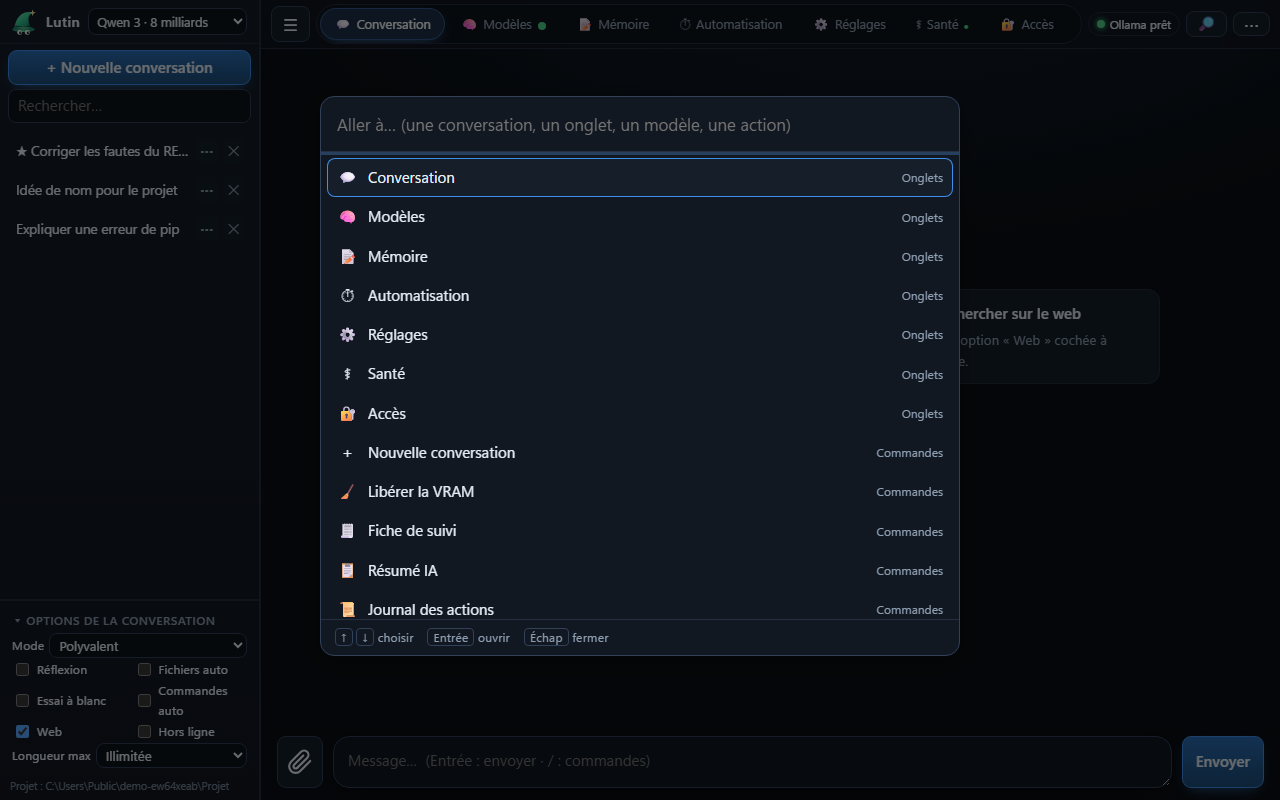
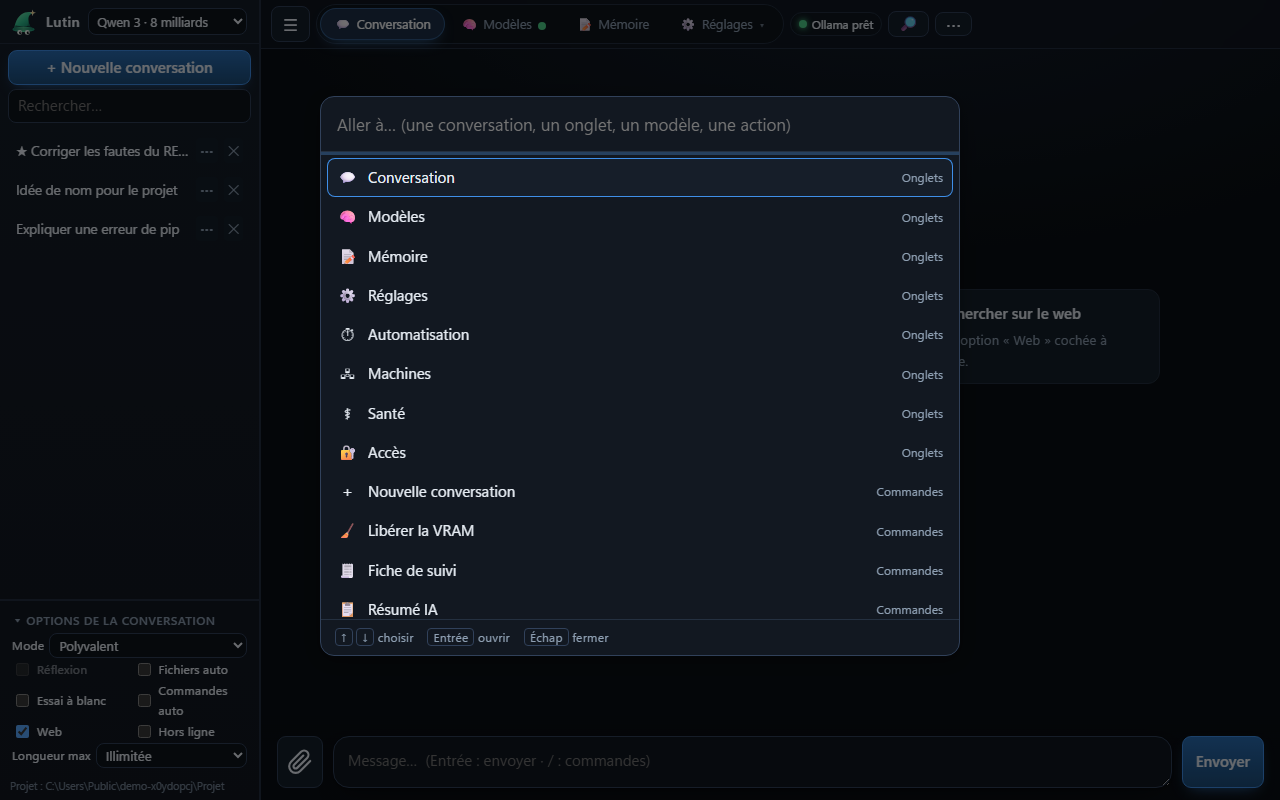
feat: Reglages et pages longues en sous-menu, navigation allegee, docs et captures a jour

diff --git a/src/lutin/web/index.html b/src/lutin/web/index.html
@@ -367,6 +367,13 @@ button.principal { box-shadow:0 6px 16px -8px rgba(63,143,232,.8); }
 .haut .onglets button[aria-selected=true] { background:#1d3048; border-color:rgba(90,169,255,.35); color:#fff; box-shadow:0 6px 16px -8px rgba(90,169,255,.7); }
 .carte { background:linear-gradient(180deg, #131b25, #10161e); box-shadow:var(--ombre-douce); transition:border-color .15s; }
 .carte:hover { border-color:var(--line2); }
+.rubrique.masque { display:none; }
+.sous-nav { display:flex; gap:6px; flex-wrap:wrap; margin:4px 0 14px; }
+.sous-nav button { border-radius:999px; padding:5px 14px; font-size:.84rem; color:#c3ccd8; background:#16202b; }
+.sous-nav button:hover:not([aria-selected=true]) { background:#1c2937; }
+.sous-nav button[aria-selected=true] { background:#1d3048; border-color:rgba(90,169,255,.35); color:#fff; }
+#p-reglages:not(.cherche) details.groupe { border:0; background:transparent; padding:0; margin:0; } #p-reglages:not(.cherche) details.groupe > summary { display:none; } #p-reglages:not(.cherche) details.groupe.masque { display:none; }
+#p-reglages.cherche .sous-nav { display:none; }
 .machine .tete-machine { display:flex; align-items:center; gap:10px; flex-wrap:wrap; margin-bottom:4px; }
 .puce-version { font-size:.72rem; padding:1px 8px; border-radius:999px; border:1px solid var(--line2); color:var(--muted); }
 .puce-version.vieille { color:var(--warm); border-color:var(--warm); } .puce-version.choisie { color:#e0a84a; border-color:#e0a84a; }
@@ -657,6 +664,7 @@ body[data-moteur="openai"] .biblio { display:none !important; }
     <div id="machinesZone"></div>
   </div></section>
   <section class="page" id="p-reglages"><div class="cadre">
+    <div id="sousReglages" class="sous-nav" role="tablist" aria-label="Rubriques des réglages"><button data-g="general" role="tab">Général</button><button data-g="moteur" role="tab">Moteur</button><button data-g="conversation" role="tab">Conversation</button><button data-g="recherche" role="tab">Recherche web</button><button data-g="dossiers" role="tab">Dossiers</button><button data-g="machine" role="tab">Avancé</button></div>
     <div class="rech-reglages"><input id="rechReglages" type="search" autocomplete="off" placeholder="Chercher un réglage (langue, PIN, moteur, dossier, mémoire…)" aria-label="Chercher un réglage"><span class="aide" id="rechReglagesInfo" role="status"></span></div>
     <details class="groupe" open data-g="general"><summary>Général</summary>
     <h2>Langue / Language</h2>
@@ -1738,7 +1746,7 @@ body[data-moteur="openai"] .biblio { display:none !important; }
       ? '📁 ' + T('Le moteur sera installé dans ') + pl.emplacement.dossier + T(' (volume dédié : une mise à jour de l\'image ne l\'efface pas).')
       : '📁 ' + T('Le moteur sera installé dans ') + pl.emplacement.dossier + T(', dans le volume des données (aucun volume /engines monté). Il survit aux mises à jour de l\'image ; pour le ranger ailleurs, ajoute « - /ton/dossier:/engines » dans les volumes du docker-compose.')));
     const l = el('div', 'ligne');
-    const ouvrirReglages = () => { ouvrirOnglet('reglages'); };
+    const ouvrirReglages = () => { ouvrirOnglet('reglages'); montrerRubrique('moteur'); };
     const msg = el('div', 'aide');
     // « Installer X » installe vraiment le moteur conseillé (le choisit, puis l'installe ou le démarre s'il est déjà là) ; l'avancement est dans la barre bleue du haut
     const installerConseille = async () => {
@@ -2227,10 +2235,27 @@ body[data-moteur="openai"] .biblio { display:none !important; }
     clavier($('sepH'), 20, d => stock('lutin.options', haut(document.querySelector('.options-lat').getBoundingClientRect().height - d)));
   };
   poignees();
-  document.querySelectorAll('details.groupe').forEach(d => {
-    try { const v = localStorage.getItem('lutin.groupe.' + d.dataset.g); if (v !== null) d.open = v === '1'; } catch (e) { /* stockage refusé : les groupes gardent leur état d'origine */ }
-    d.addEventListener('toggle', () => { try { localStorage.setItem('lutin.groupe.' + d.dataset.g, d.open ? '1' : '0'); } catch (e) { /* idem */ } });
-  });
+  // ---- Réglages : une rubrique à la fois (sous-menu en haut de la page) ; la dernière ouverte est retenue
+  const montrerRubrique = g => {
+    document.querySelectorAll('#p-reglages details.groupe').forEach(d => { d.open = true; d.classList.toggle('masque', d.dataset.g !== g); });
+    document.querySelectorAll('#sousReglages button').forEach(b => b.setAttribute('aria-selected', String(b.dataset.g === g)));
+    try { localStorage.setItem('lutin.reglages.rubrique', g); } catch (e) { /* stockage refusé : la rubrique n'est pas retenue */ }
+  };
+  // Les pages longues (Mémoire, Automatisation, Accès) : un sous-menu bâti à partir de leurs titres, une rubrique à la fois, la dernière retenue
+  const rubriquer = id => {
+    const cadre = document.querySelector('#' + id + ' > .cadre'); if (!cadre) return;
+    const titres = [...cadre.querySelectorAll(':scope > h2')]; if (titres.length < 3) return;
+    const nav = el('div', 'sous-nav'); nav.setAttribute('role', 'tablist');
+    const sections = titres.map(h => { const sec = el('div', 'rubrique'); h.before(sec); let n = h; while (n && (n === h || n.tagName !== 'H2')) { const suivant = n.nextSibling; sec.appendChild(n); n = suivant; } return sec; });
+    const montrer = i => { sections.forEach((s, k) => s.classList.toggle('masque', k !== i)); [...nav.children].forEach((b, k) => b.setAttribute('aria-selected', String(k === i))); try { localStorage.setItem('lutin.rubrique.' + id, String(i)); } catch (e) { /* stockage refusé */ } };
+    titres.forEach((h, i) => { const b = el('button', '', (h.firstChild ? h.firstChild.textContent : h.textContent).trim()); b.setAttribute('role', 'tab'); b.addEventListener('click', () => montrer(i)); nav.appendChild(b); });
+    sections[0].before(nav);
+    let v = 0; try { v = +(localStorage.getItem('lutin.rubrique.' + id) || 0); } catch (e) { /* idem */ }
+    montrer(v >= 0 && v < sections.length ? v : 0);
+  };
+  ['p-memoire', 'p-auto', 'p-acces'].forEach(rubriquer);
+  document.querySelectorAll('#sousReglages button').forEach(b => b.addEventListener('click', () => montrerRubrique(b.dataset.g)));
+  { let g = 'general'; try { g = localStorage.getItem('lutin.reglages.rubrique') || g; } catch (e) { /* idem */ } if (!document.querySelector('#sousReglages button[data-g="' + g + '"]')) g = 'general'; montrerRubrique(g); }
   // ---- Mémoire des longues conversations : résumé automatique ou fiche de suivi
   const fichePart = () => String(ETAT.reglages.fiche_part || 10);
   // Recherche par le sens : il faut un petit modèle d'Ollama ; la page dit s'il est là et propose de l'installer
@@ -3655,7 +3680,7 @@ body[data-moteur="openai"] .biblio { display:none !important; }
     const neuf = document.createElement('div');
     if (!m.statut.installe || (!m.statut.actif && m.statut.mode === 'externe')) {
       const c = el('div', 'carte'); c.appendChild(el('span', '', m.statut.detail || T('Ce moteur n\'est pas prêt.')));
-      const b = el('button', 'principal', T('Ouvrir les réglages du moteur')); b.addEventListener('click', () => ouvrirOnglet('reglages')); c.appendChild(b); neuf.appendChild(c);
+      const b = el('button', 'principal', T('Ouvrir les réglages du moteur')); b.addEventListener('click', () => { ouvrirOnglet('reglages'); montrerRubrique('moteur'); }); c.appendChild(b); neuf.appendChild(c);
     }
     if (m.id === 'openai') {          // serveur externe : la page commune est masquée, voici ses modèles
       neuf.appendChild(el('h2', '', T('Modèles de ') + m.nom));
@@ -4310,8 +4335,9 @@ body[data-moteur="openai"] .biblio { display:none !important; }
       d.hidden = !ok;
       if (ok) { gardes++; if (!premier) premier = d; }
       if (mots.length) { if (ok) d.open = true; }
-      else if (d.dataset.ouvertAvant !== undefined) { d.open = d.dataset.ouvertAvant === '1'; delete d.dataset.ouvertAvant; }
+      else if (d.dataset.ouvertAvant !== undefined) { d.open = true; delete d.dataset.ouvertAvant; }
     });
+    $('p-reglages').classList.toggle('cherche', mots.length > 0);
     $('rechReglagesInfo').textContent = mots.length ? (gardes ? gardes + ' ' + (gardes > 1 ? T('groupes correspondent') : T('groupe correspond')) : T('Aucun réglage ne correspond.')) : '';
     if (mots.length && premier) premier.scrollIntoView({ block: 'nearest' });
   };
@@ -4323,7 +4349,7 @@ body[data-moteur="openai"] .biblio { display:none !important; }
   const itemsPalette = () => {
     const g = { onglet: T('Onglets'), action: T('Commandes'), conv: T('Conversations'), modele: T('Modèles'), reglage: T('Réglages') };
     const liste = [];
-    document.querySelectorAll('.onglets button[data-p]').forEach(b => { const lb = b.querySelector('.lb'), ic = b.querySelector('.ic'); const nom = lb ? lb.textContent : b.title; liste.push({ ic: ic ? ic.textContent : '▸', t: nom, g: g.onglet, k: b.dataset.p, f: () => b.click() }); });
+    document.querySelectorAll('.onglets button[data-p]').forEach(b => { const lb = b.querySelector('.lb') || b.querySelector('b'), ic = b.querySelector('.ic'); const nom = b.dataset.p === 'reglages' ? T('Réglages') : (lb ? lb.textContent : b.title); liste.push({ ic: ic ? ic.textContent : '▸', t: nom, g: g.onglet, k: b.dataset.p, f: () => b.click() }); });
     liste.push({ ic: '＋', t: T('Nouvelle conversation'), g: g.action, k: 'nouveau new clear', f: () => nouvelle() });
     [['bVram', '🧹'], ['bFiche', '🧾'], ['bResume', '📋'], ['bJournal', '📜'], ['bSauvegarde', '💾'], ['bGit', '⎇'], ['bExport', '⬇']].forEach(([id, ic]) => {
       const b = $(id); if (!b) return; liste.push({ ic, t: b.textContent.replace(/^[^\p{L}\p{N}]+/u, '').trim() || b.title, g: g.action, k: b.title, f: () => b.click() });
@@ -4332,7 +4358,7 @@ body[data-moteur="openai"] .biblio { display:none !important; }
     liste.push({ ic: '✔', t: T('Vérifier que tout marche'), g: g.action, k: 'sante test diagnostic', f: async () => { ouvrirOnglet('sante'); await window.ouvrirSante(); const b = [...document.querySelectorAll('#santeCorps button')].find(x => x.textContent.includes(T('Vérifier que tout marche'))); if (b) b.click(); } });
     ((ETAT && ETAT.conversations) || []).forEach(c => liste.push({ ic: c.epingle ? '★' : '💬', t: c.titre || T('(sans titre)'), g: g.conv, k: '', f: () => { ouvrirOnglet('chat'); ouvrir(c.id); } }));
     if (ETAT && ETAT.installes) installesDiscussion().forEach(m => liste.push({ ic: '🧠', t: m, g: g.modele, k: 'modele model changer', f: () => { const s = $('selModele'); s.value = m; s.dispatchEvent(new Event('change')); } }));
-    document.querySelectorAll('#p-reglages details.groupe > summary').forEach(sm => liste.push({ ic: '⚙', t: sm.textContent.trim(), g: g.reglage, k: 'reglages parametres options', f: () => { ouvrirOnglet('reglages'); const d = sm.parentElement; d.open = true; setTimeout(() => d.scrollIntoView({ block: 'start' }), 30); } }));
+    document.querySelectorAll('#p-reglages details.groupe > summary').forEach(sm => liste.push({ ic: '⚙', t: sm.textContent.trim(), g: g.reglage, k: 'reglages parametres options', f: () => { ouvrirOnglet('reglages'); const d = sm.parentElement; montrerRubrique(d.dataset.g); setTimeout(() => d.scrollIntoView({ block: 'start' }), 30); } }));
     return liste;
   };
   const notePalette = (it, mots) => {

diff --git a/tests/test_navigateur.py b/tests/test_navigateur.py
@@ -46,6 +46,11 @@ def cliquer_dans_ligne(page, nom, bouton_texte):
     page.evaluer("(() => { const l = [...document.querySelectorAll('#listeTravaux .conv')].find(x => x.textContent.includes(%s)); [...l.querySelectorAll('button')].find(b => b.textContent === %s).click(); })()" % (json.dumps(nom), json.dumps(bouton_texte)))
 
 
+def rubrique(nom):
+    """Une rubrique de la page Réglages (sous-menu du haut)."""
+    return "document.querySelector('#sousReglages button[data-g=\"{}\"]').click()".format(nom)
+
+
 def onglet(nom):
     return "document.querySelector('.onglets button[data-p=\"{}\"]').click()".format(nom)
 
@@ -115,6 +120,7 @@ class Parcours(unittest.TestCase):
             (ancien / "memoire" / "MEMOIRE.md").write_text("# Mémoire\n\nUne note ancienne.\n", encoding="utf-8")
             p = self.ouvrir(tmp, "http://127.0.0.1:%d/" % port)
             p.evaluer(onglet("reglages"))
+            p.evaluer(rubrique("dossiers"))
             p.attendre(bouton("Reprendre les données d'un autre assistant…"))
             p.attendre("!!document.querySelector('#modalCorps input')")
             saisie = "(texte) => { const i = document.querySelector('#modalCorps input'); i.value = texte; return true; }"
@@ -141,6 +147,7 @@ class Parcours(unittest.TestCase):
             p = self.ouvrir(tmp, "http://127.0.0.1:%d/" % port)
             self.assertFalse(p.evaluer("!!document.querySelector('#selTravail')"), "plus de sélecteur de dossier dans la barre latérale")
             p.evaluer(onglet("reglages"))
+            p.evaluer(rubrique("dossiers"))
             p.attendre("document.querySelector('#listeTravaux').textContent.includes('★ Projet')")
             # choisir l'autre dossier
             p.evaluer(bouton("Utiliser ce dossier"))
@@ -210,13 +217,15 @@ class Parcours(unittest.TestCase):
             p.attendre("document.querySelector('#p-auto').classList.contains('vue')")
             self.assertTrue(p.evaluer("!!document.querySelector('#p-auto #listePlanifie')"))
             self.assertFalse(p.evaluer("!!document.querySelector('#p-memoire #listePlanifie')"))
-            # les réglages sont rangés en groupes repliables
+            # les réglages sont rangés en rubriques : un sous-menu, une rubrique à la fois
             p.evaluer(onglet("reglages"))
             groupes = p.evaluer("[...document.querySelectorAll('#p-reglages details.groupe > summary')].map(s => s.textContent.trim())")
             self.assertEqual(groupes, ["Général", "Recherche web", "Dossiers et données", "Moteur", "Conversation", "Machine et réglages avancés"])
             self.assertEqual(p.evaluer("document.querySelectorAll('#p-reglages > .cadre > h2').length"), 0, "plus de section isolée hors d'un groupe")
-            p.evaluer("document.querySelector('#p-reglages details.groupe[data-g=general] > summary').click()")
-            p.attendre("localStorage.getItem('lutin.groupe.general') === '0'")                       # l'évènement « toggle » arrive juste après le clic
+            self.assertEqual(p.evaluer("[...document.querySelectorAll('#p-reglages details.groupe')].filter(d => getComputedStyle(d).display !== 'none').map(d => d.dataset.g)"), ["general"])
+            p.evaluer("document.querySelector('#sousReglages button[data-g=moteur]').click()")
+            self.assertEqual(p.evaluer("[...document.querySelectorAll('#p-reglages details.groupe')].filter(d => getComputedStyle(d).display !== 'none').map(d => d.dataset.g)"), ["moteur"])
+            p.attendre("localStorage.getItem('lutin.reglages.rubrique') === 'moteur'")                       # la rubrique ouverte est retenue
             self.assertEqual(p.erreurs, [])
 
     def test_extensions_activer_un_addon_et_voir_son_panneau(self):
@@ -513,6 +522,7 @@ class Parcours(unittest.TestCase):
             (ancien / "memoire" / "MEMOIRE.md").write_text("# Mémoire\n\nUne note ancienne.\n", encoding="utf-8")
             p = self.ouvrir(tmp, "http://127.0.0.1:%d/" % port)
             p.evaluer(onglet("reglages"))
+            p.evaluer(rubrique("dossiers"))
             p.attendre(bouton("Ajouter un dossier…"))
             p.evaluer(bouton("Ajouter un dossier…"))
             naviguer(p, str(ancien), "[...document.querySelectorAll('#modalCorps .conv')].some(x => x.textContent.includes('donnees'))")

diff --git a/tests/test_palette.py b/tests/test_palette.py
@@ -218,9 +218,9 @@ class RechercheReglages(unittest.TestCase):
             p.evaluer("(() => { const c = document.getElementById('rechReglages'); c.value = 'zzzqqq'; c.dispatchEvent(new Event('input', {bubbles: true})); return true; })()")
             self.assertTrue(all(e[0] for e in p.evaluer(etat)))
             self.assertIn("Aucun réglage", p.evaluer("document.getElementById('rechReglagesInfo').textContent"))
-            # champ vidé : tout est de retour, chaque groupe comme avant la recherche (tous refermés ici)
+            # champ vidé : tout est de retour (les groupes sont toujours ouverts : une rubrique à la fois les masque)
             p.evaluer("(() => { const c = document.getElementById('rechReglages'); c.value = ''; c.dispatchEvent(new Event('input', {bubbles: true})); return true; })()")
-            self.assertEqual(p.evaluer(etat), [[False, False]] * total)
+            self.assertEqual(p.evaluer(etat), [[False, True]] * total)
             self.assertEqual(p.evaluer("document.getElementById('rechReglagesInfo').textContent"), "")
             self.assertEqual(p.erreurs, [])
 

diff --git a/CHANGELOG.md b/CHANGELOG.md
@@ -2,6 +2,15 @@
 
 The following versions are published automatically (generated notes on the Releases page); this file keeps the first versions and the main changes. / Les versions suivantes sont publiées automatiquement (notes générées sur la page des Releases) ; ce fichier garde les premières versions et les changements principaux.
 
+## Navigation repensée, page Machines complète
+
+- **Une barre du haut qui tient partout** : Conversation, Modèles, Mémoire et un menu **Réglages ▾** (Réglages, Automatisation, Machines, Santé, Accès). Le bouton affiche la page ouverte dans le menu, un point de couleur y signale un problème de santé, et sur téléphone le menu prend la largeur de l'écran. Le clavier marche (flèches, Échap).
+- **Des pages moins chargées** : Réglages devient un sous-menu (Général, Moteur, Conversation, Recherche web, Dossiers, Avancé), une rubrique à la fois ; Mémoire, Automatisation et Accès ont le même sous-menu, bâti sur leurs titres. La dernière rubrique ouverte est retenue ; la recherche des Réglages cherche partout.
+- **La page Machines** s'active depuis elle-même (la case des Réglages disparaît) ; chaque machine montre où elle en est, en direct : *réveil envoyé → allumée → Lutin démarré → synchronisation → prête*, et *extinction dans N s* avec Annuler. Une connexion refusée distingue « allumée, Lutin pas lancé » de « éteinte ».
+- **Des listes propres** : quand une machine ne répond plus ou qu'on l'éteint d'ici, ses modèles et ses conversations disparaissent tout de suite ; à son retour, ils sont relus.
+- **Mettre à jour Lutin à distance** : la machine affiche sa version, et un bouton apparaît si elle a une version plus ancienne. Le propriétaire doit avoir coché « Autoriser les machines appairées à mettre Lutin à jour » (décoché par défaut, noté dans son journal).
+- **À savoir** : testé avec de faux nœuds et un vrai navigateur ; pas encore essayé entre deux vrais ordinateurs. Aucune mesure ne montre de ralentissement dû à l'application : les appels de la page au repos sont rares (3 toutes les 12 s), les plus lents sont la page Santé (~2 s à froid) et Automatisation (~0,5 s).
+
 ## Un onglet Machines, réveil et état des machines
 
 - **Un onglet Machines** (réglage « Utiliser plusieurs machines » dans Réglages > Moteur) : les machines appairées, celle-ci quand tu la prêtes, le réveil, l'extinction et les imports y sont rassemblés ; les Réglages sont plus courts. L'onglet apparaît tout seul dès qu'une machine est appairée ou prêtée, et se cache sinon.

diff --git a/README.fr.md b/README.fr.md
@@ -58,6 +58,8 @@ Le script installe la dernière version publiée dans un environnement privé, a
 
 ## Utilisation
 
+La barre du haut garde quatre boutons : **Conversation**, **Modèles**, **Mémoire** et **Réglages ▾**. Le menu Réglages ouvre **Réglages** (langue, moteur, conversation, recherche web, dossiers, avancé), **Automatisation**, **Machines** (utiliser le moteur d'un autre ordinateur ; désactivé tant que tu ne l'actives pas), **Santé** et **Accès** (code PIN, appareils connectés). Les pages longues ont un sous-menu en haut, une rubrique à la fois. **Ctrl+K** trouve tout.
+
 <p align="center">
   <img src="assets/capture-modeles.fr.png" alt="L'onglet Modèles : nouveautés, mesures, boutons de recherche de mises à jour" width="92%">
   <br><br>

diff --git a/README.md b/README.md
@@ -58,6 +58,8 @@ The script installs the latest published version in a private environment, adds 
 
 ## Usage
 
+The top bar keeps four buttons: **Conversation**, **Models**, **Memory** and **Settings ▾**. The Settings menu opens **Settings** (language, engine, conversation, web search, folders, advanced), **Automation**, **Machines** (use another computer's engine; off until you turn it on), **Health** and **Access** (PIN code, connected devices). Long pages have a sub-menu at the top, one section at a time. **Ctrl+K** finds anything.
+
 <p align="center">
   <img src="assets/capture-modeles.png" alt="The Models tab: news, measurements, buttons to look for updates" width="92%">
   <br><br>
